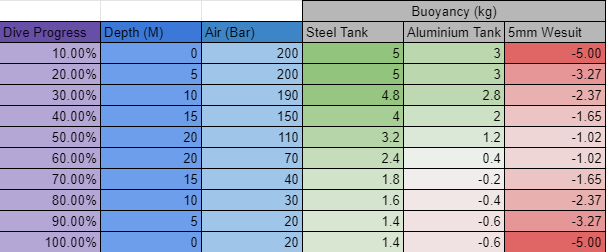
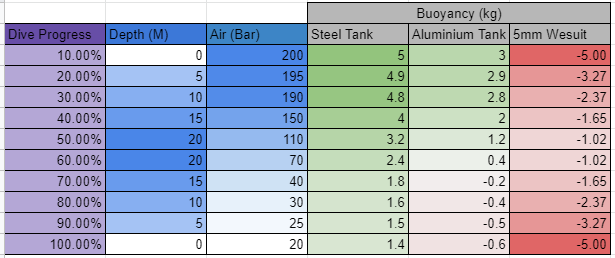
deploy: 3929af5ce4bd202bf908be422c1f3f63f6a46b30

diff --git a/diving/index.html b/diving/index.html
@@ -1,4 +1,4 @@
-<!doctype html><html xmlns=http://www.w3.org/1999/xhtml xml:lang=en-us lang=en-us><head><meta charset=utf-8><meta name=viewport content="width=device-width,initial-scale=1"><meta name=generator content="Hugo 0.74.2"><title>Diving &#183; James Moriarty</title><meta name=description content="Diving by James Moriarty."><meta itemprop=name content="Diving"><meta itemprop=description content="Diving by James Moriarty."><meta itemprop=datePublished content="2021-02-10T00:00:00+00:00"><meta itemprop=dateModified content="2021-02-10T00:00:00+00:00"><meta itemprop=wordCount content="288"><meta itemprop=keywords content><meta name=twitter:card content="summary"><meta name=twitter:title content="Diving"><meta name=twitter:description content="Diving by James Moriarty."><meta property="og:title" content="Diving"><meta property="og:description" content="Diving by James Moriarty."><meta property="og:type" content="article"><meta property="og:url" content="https://www.jamesmoriarty.xyz/diving/"><meta property="article:published_time" content="2021-02-10T00:00:00+00:00"><meta property="article:modified_time" content="2021-02-10T00:00:00+00:00"><script async src="https://www.googletagmanager.com/gtag/js?id=G-NHMWRM0LY9"></script><script>window.dataLayer=window.dataLayer||[];function gtag(){dataLayer.push(arguments);}
-gtag('js',new Date());gtag('config','G-NHMWRM0LY9');</script><link type=text/css rel=stylesheet href=https://www.jamesmoriarty.xyz/css/print.css media=print><link type=text/css rel=stylesheet href=https://www.jamesmoriarty.xyz/css/poole.css><link type=text/css rel=stylesheet href=https://www.jamesmoriarty.xyz/css/hyde.css><style type=text/css>.sidebar{background-color:#313131}.read-more-link a{border-color:#313131}.pagination li a{color:#313131;border:1px solid #313131}.pagination li.active a{background-color:#313131}.pagination li a:hover{background-color:#313131;opacity:.75}footer a,.content a,.related-posts li a:hover{color:#313131}</style><link type=text/css rel=stylesheet href=https://www.jamesmoriarty.xyz/css/custom.css><link rel=stylesheet href="https://fonts.googleapis.com/css?family=Open+Sans:400,400i,700&display=swap"><link rel=stylesheet href=https://cdnjs.cloudflare.com/ajax/libs/font-awesome/5.12.1/css/all.min.css integrity="sha256-mmgLkCYLUQbXn0B1SRqzHar6dCnv9oZFPEC1g1cwlkk=" crossorigin=anonymous><link rel=apple-touch-icon-precomposed sizes=144x144 href=/apple-touch-icon-144-precomposed.png><link rel="shortcut icon" href=/favicon.png></head><body><aside class=sidebar><div class=container><div class=sidebar-about><div class=author-image><img src=https://www.jamesmoriarty.xyz/images/james-moriarty.jpg class="img-circle img-headshot center" alt="Profile Picture"></div><h1>James Moriarty</h1></div><nav><ul class=sidebar-nav><li><a href=https://www.jamesmoriarty.xyz/>Home</a></li><li><a href=/posts/>Posts</a></li><li><a href=/talks/>Talks</a></li><li><a href=/about/>About</a></li><li><a href=/diving/>Diving</a></li><li><a href=/software/>Software</a></li><li><a href=/hardware/>Hardware</a></li></ul></nav><section class=social-icons><a href=https://www.linkedin.com/in/jamespaulmoriarty rel=me title=Linkedin><i class="fab fa-linkedin" aria-hidden=true></i></a><a href=https://github.com/jamesmoriarty rel=me title=GitHub><i class="fab fa-github" aria-hidden=true></i></a><a href=https://twitter.com/jamespmoriarty rel=me title=Twitter><i class="fab fa-twitter" aria-hidden=true></i></a></section></div></aside><main class="content container"><div class=post><h1>Diving</h1><p>This page is dedicated to my interest in diving. I&rsquo;ve enjoyed free & scuba diving in New Zealand, Australia, and Pacific Islands.</p><h2 id=photos>Photos</h2><p><a href=/images/diving-hawkes-bay.jpg><img src=/images/diving-hawkes-bay.jpg alt="&ldquo;The Boil&rdquo; 3-25m 3km offshore, Te Motu-o-Kura, Hawkes Bay, New Zealand, December, 2016"></a></p><blockquote><p>&ldquo;The Boil&rdquo; 3-25m 3km offshore, Te Motu-o-Kura, Hawkes Bay, New Zealand, December, 2016.</p></blockquote><p><img src=/images/diving-raro-two.jpg alt="Octopus, Rarotonga, Cook Islands, 2011"></p><blockquote><p>Octopus, Rarotonga, Cook Islands, 2011.</p></blockquote><p><img src=/images/diving-raro-one.jpg alt="Squirrelfish, Rarotonga, Cook Islands, 2011"></p><blockquote><p>Squirrelfish, Rarotonga, Cook Islands, 2011.</p></blockquote><h2 id=log>Log</h2><table><thead><tr><th>#</th><th>Date</th><th>Location</th><th>Log</th></tr></thead><tbody><tr><td>1-10</td><td>2009-2009</td><td>Rarotonga</td><td>Pool & Boat dives supplied by Cook Island Divers for PADI Open Water certification.</td></tr><tr><td>10-14</td><td>2011-2011</td><td>Rarotonga</td><td>Cook Island Divers supplied several boat dives.</td></tr><tr><td>15-21</td><td>2011-2013</td><td>Wellington</td><td>Shore dives in the harbour with new gear and various dive crews.</td></tr><tr><td>22-41</td><td>2011-2019</td><td>Hawkes Bay</td><td>Boat dives off Te Motu-o-Kura over Summer Holidays almost every year.</td></tr></tbody></table><h2 id=gear>Gear</h2><h3 id=buy-vs-hire>Buy vs Hire</h3><p>The following chart illustrates a point of financial return at around 40-60 dives. I&rsquo;ve included ongoing costs with buying to account for air-fills and maintenance. Entry and ongoing costs will vary.</p><p><img src=/images/diving-buy-vs-rent.png alt="chart of buy vs rent diving gear"></p><h3 id=free-diving>Free Diving</h3><table><thead><tr><th>Item</th><th align=center>Year</th><th align=right>Cost</th></tr></thead><tbody><tr><td>Cressi Technica 5mm Wetsuit</td><td align=center>2010</td><td align=right>$375.50NZD</td></tr><tr><td>Cressi 5mm Diving Boots</td><td align=center>2011</td><td align=right>$0.00USD</td></tr><tr><td>Cressi Pro Light Fins</td><td align=center>2011</td><td align=right>$39.95USD</td></tr><tr><td>Mares Tana Snorkelling Set</td><td align=center>2020</td><td align=right>$49.95AUD</td></tr></tbody></table><p>Total: $440.00AUD</p><h3 id=scuba-diving>Scuba Diving</h3><table><thead><tr><th>Item</th><th align=center>Year</th><th align=right>Cost</th></tr></thead><tbody><tr><td>Cressi Ellipse Black MC5 Regulator</td><td align=center>2011</td><td align=right>$199.95USD</td></tr><tr><td>Cressi Ellipse Octopus</td><td align=center>2011</td><td align=right>$81.95USD</td></tr><tr><td>Cressi Start BCD Medium</td><td align=center>2011</td><td align=right>$189.95USD</td></tr><tr><td>Mares Puck Air Computer Console With Compass</td><td align=center>2011</td><td align=right>$349.95USD</td></tr></tbody></table><p>Total: $1,061.64AUD</p><h3 id=weight>Weight</h3><table><thead><tr><th>Item</th><th align=center>Year</th><th align=right>Cost</th></tr></thead><tbody><tr><td>2.5kg Leadshot Bag x2 w/ BCD</td><td align=center>2021</td><td align=right>$120.00AUD</td></tr><tr><td>5.5kg Lead Weight w/ Belt</td><td align=center>2021</td><td align=right>$60.00AUD</td></tr><tr><td>Belt</td><td align=center>2021</td><td align=right>$49.95AUD</td></tr></tbody></table><p>Total: $229.95AUD</p><p>The following chart shows how buoyancy can we influenced by multiple factors over the course of a dive. Tank buoyancy increases as consumered while wetsuit loses buoyancy as compressed at depth.</p><p><img src=/images/diving-weight-chart.png alt="chart of how body weight can affect buoyancy"></p><h3 id=total>Total</h3><p>I feel this setup was relatively good value. It would cost more than double to buy the computer domestically with geographic pricing.</p><p>Total: $1731.59AUD</p></div></main><footer><div>&copy; James Moriarty 2021
+<!doctype html><html xmlns=http://www.w3.org/1999/xhtml xml:lang=en-us lang=en-us><head><meta charset=utf-8><meta name=viewport content="width=device-width,initial-scale=1"><meta name=generator content="Hugo 0.74.2"><title>Diving &#183; James Moriarty</title><meta name=description content="Diving by James Moriarty."><meta itemprop=name content="Diving"><meta itemprop=description content="Diving by James Moriarty."><meta itemprop=datePublished content="2021-02-10T00:00:00+00:00"><meta itemprop=dateModified content="2021-02-10T00:00:00+00:00"><meta itemprop=wordCount content="300"><meta itemprop=keywords content><meta name=twitter:card content="summary"><meta name=twitter:title content="Diving"><meta name=twitter:description content="Diving by James Moriarty."><meta property="og:title" content="Diving"><meta property="og:description" content="Diving by James Moriarty."><meta property="og:type" content="article"><meta property="og:url" content="https://www.jamesmoriarty.xyz/diving/"><meta property="article:published_time" content="2021-02-10T00:00:00+00:00"><meta property="article:modified_time" content="2021-02-10T00:00:00+00:00"><script async src="https://www.googletagmanager.com/gtag/js?id=G-NHMWRM0LY9"></script><script>window.dataLayer=window.dataLayer||[];function gtag(){dataLayer.push(arguments);}
+gtag('js',new Date());gtag('config','G-NHMWRM0LY9');</script><link type=text/css rel=stylesheet href=https://www.jamesmoriarty.xyz/css/print.css media=print><link type=text/css rel=stylesheet href=https://www.jamesmoriarty.xyz/css/poole.css><link type=text/css rel=stylesheet href=https://www.jamesmoriarty.xyz/css/hyde.css><style type=text/css>.sidebar{background-color:#313131}.read-more-link a{border-color:#313131}.pagination li a{color:#313131;border:1px solid #313131}.pagination li.active a{background-color:#313131}.pagination li a:hover{background-color:#313131;opacity:.75}footer a,.content a,.related-posts li a:hover{color:#313131}</style><link type=text/css rel=stylesheet href=https://www.jamesmoriarty.xyz/css/custom.css><link rel=stylesheet href="https://fonts.googleapis.com/css?family=Open+Sans:400,400i,700&display=swap"><link rel=stylesheet href=https://cdnjs.cloudflare.com/ajax/libs/font-awesome/5.12.1/css/all.min.css integrity="sha256-mmgLkCYLUQbXn0B1SRqzHar6dCnv9oZFPEC1g1cwlkk=" crossorigin=anonymous><link rel=apple-touch-icon-precomposed sizes=144x144 href=/apple-touch-icon-144-precomposed.png><link rel="shortcut icon" href=/favicon.png></head><body><aside class=sidebar><div class=container><div class=sidebar-about><div class=author-image><img src=https://www.jamesmoriarty.xyz/images/james-moriarty.jpg class="img-circle img-headshot center" alt="Profile Picture"></div><h1>James Moriarty</h1></div><nav><ul class=sidebar-nav><li><a href=https://www.jamesmoriarty.xyz/>Home</a></li><li><a href=/posts/>Posts</a></li><li><a href=/talks/>Talks</a></li><li><a href=/about/>About</a></li><li><a href=/diving/>Diving</a></li><li><a href=/software/>Software</a></li><li><a href=/hardware/>Hardware</a></li></ul></nav><section class=social-icons><a href=https://www.linkedin.com/in/jamespaulmoriarty rel=me title=Linkedin><i class="fab fa-linkedin" aria-hidden=true></i></a><a href=https://github.com/jamesmoriarty rel=me title=GitHub><i class="fab fa-github" aria-hidden=true></i></a><a href=https://twitter.com/jamespmoriarty rel=me title=Twitter><i class="fab fa-twitter" aria-hidden=true></i></a></section></div></aside><main class="content container"><div class=post><h1>Diving</h1><p>This page is dedicated to my interest in diving. I&rsquo;ve enjoyed free & scuba diving in New Zealand, Australia, and Pacific Islands.</p><h2 id=photos>Photos</h2><p><a href=/images/diving-hawkes-bay.jpg><img src=/images/diving-hawkes-bay.jpg alt="&ldquo;The Boil&rdquo; 3-25m 3km offshore, Te Motu-o-Kura, Hawkes Bay, New Zealand, December, 2016"></a></p><blockquote><p>&ldquo;The Boil&rdquo; 3-25m 3km offshore, Te Motu-o-Kura, Hawkes Bay, New Zealand, December, 2016.</p></blockquote><p><img src=/images/diving-raro-two.jpg alt="Octopus, Rarotonga, Cook Islands, 2011"></p><blockquote><p>Octopus, Rarotonga, Cook Islands, 2011.</p></blockquote><p><img src=/images/diving-raro-one.jpg alt="Squirrelfish, Rarotonga, Cook Islands, 2011"></p><blockquote><p>Squirrelfish, Rarotonga, Cook Islands, 2011.</p></blockquote><h2 id=log>Log</h2><table><thead><tr><th>#</th><th>Date</th><th>Location</th><th>Log</th></tr></thead><tbody><tr><td>1-10</td><td>2009-2009</td><td>Rarotonga</td><td>Pool & Boat dives supplied by Cook Island Divers for PADI Open Water certification.</td></tr><tr><td>10-14</td><td>2011-2011</td><td>Rarotonga</td><td>Cook Island Divers supplied several boat dives.</td></tr><tr><td>15-21</td><td>2011-2013</td><td>Wellington</td><td>Shore dives in the harbour with new gear and various dive crews.</td></tr><tr><td>22-41</td><td>2011-2019</td><td>Hawkes Bay</td><td>Boat dives off Te Motu-o-Kura over Summer Holidays almost every year.</td></tr></tbody></table><h2 id=gear>Gear</h2><h3 id=buy-vs-hire>Buy vs Hire</h3><p>The following chart illustrates a point of financial return at around 40-60 dives. I&rsquo;ve included ongoing costs with buying to account for air-fills and maintenance. Entry and ongoing costs will vary.</p><p><img src=/images/diving-buy-vs-rent.png alt="chart of buy vs rent diving gear"></p><h3 id=free-diving>Free Diving</h3><table><thead><tr><th>Item</th><th align=center>Year</th><th align=right>Cost</th></tr></thead><tbody><tr><td>Cressi Technica 5mm Wetsuit</td><td align=center>2010</td><td align=right>$375.50NZD</td></tr><tr><td>Cressi 5mm Diving Boots</td><td align=center>2011</td><td align=right>$0.00USD</td></tr><tr><td>Cressi Pro Light Fins</td><td align=center>2011</td><td align=right>$39.95USD</td></tr><tr><td>Mares Tana Snorkelling Set</td><td align=center>2020</td><td align=right>$49.95AUD</td></tr></tbody></table><p>Total: $440.00AUD</p><h3 id=scuba-diving>Scuba Diving</h3><table><thead><tr><th>Item</th><th align=center>Year</th><th align=right>Cost</th></tr></thead><tbody><tr><td>Cressi Ellipse Black MC5 Regulator</td><td align=center>2011</td><td align=right>$199.95USD</td></tr><tr><td>Cressi Ellipse Octopus</td><td align=center>2011</td><td align=right>$81.95USD</td></tr><tr><td>Cressi Start BCD Medium</td><td align=center>2011</td><td align=right>$189.95USD</td></tr><tr><td>Mares Puck Air Computer Console With Compass</td><td align=center>2011</td><td align=right>$349.95USD</td></tr></tbody></table><p>Total: $1,061.64AUD</p><h3 id=weight>Weight</h3><table><thead><tr><th>Item</th><th align=center>Year</th><th align=right>Cost</th></tr></thead><tbody><tr><td>2.5kg Leadshot Bag x2 w/ BCD</td><td align=center>2021</td><td align=right>$120.00AUD</td></tr><tr><td>5.5kg Lead Weight w/ Belt</td><td align=center>2021</td><td align=right>$60.00AUD</td></tr><tr><td>Belt</td><td align=center>2021</td><td align=right>$49.95AUD</td></tr></tbody></table><p>Total: $229.95AUD</p><p>The following chart shows how buoyancy can we influenced by multiple factors over the course of a dive.</p><p><img src=/images/diving-weight-chart.png alt="chart of how body weight can affect buoyancy"></p><blockquote><p>Tank buoyancy increases as consumered while wetsuits lose buoyancy as compressed at depth.</p></blockquote><p><img src=/images/diving-weight-chart2.png alt="chart of how body weight can affect buoyancy"></p><blockquote><p>Calculating your buoyancy over the course of a dive can be non-trival.</p></blockquote><h3 id=total>Total</h3><p>I feel this setup was relatively good value. It would cost more than double to buy the computer domestically with geographic pricing.</p><p>Total: $1731.59AUD</p></div></main><footer><div>&copy; James Moriarty 2021
 ·
 <a href=https://creativecommons.org/licenses/by-sa/4.0 target=_blank>CC BY-SA 4.0</a></div></footer><script src=https://cdnjs.cloudflare.com/ajax/libs/font-awesome/5.12.1/js/all.min.js integrity="sha256-MAgcygDRahs+F/Nk5Vz387whB4kSK9NXlDN3w58LLq0=" crossorigin=anonymous></script></body></html>
